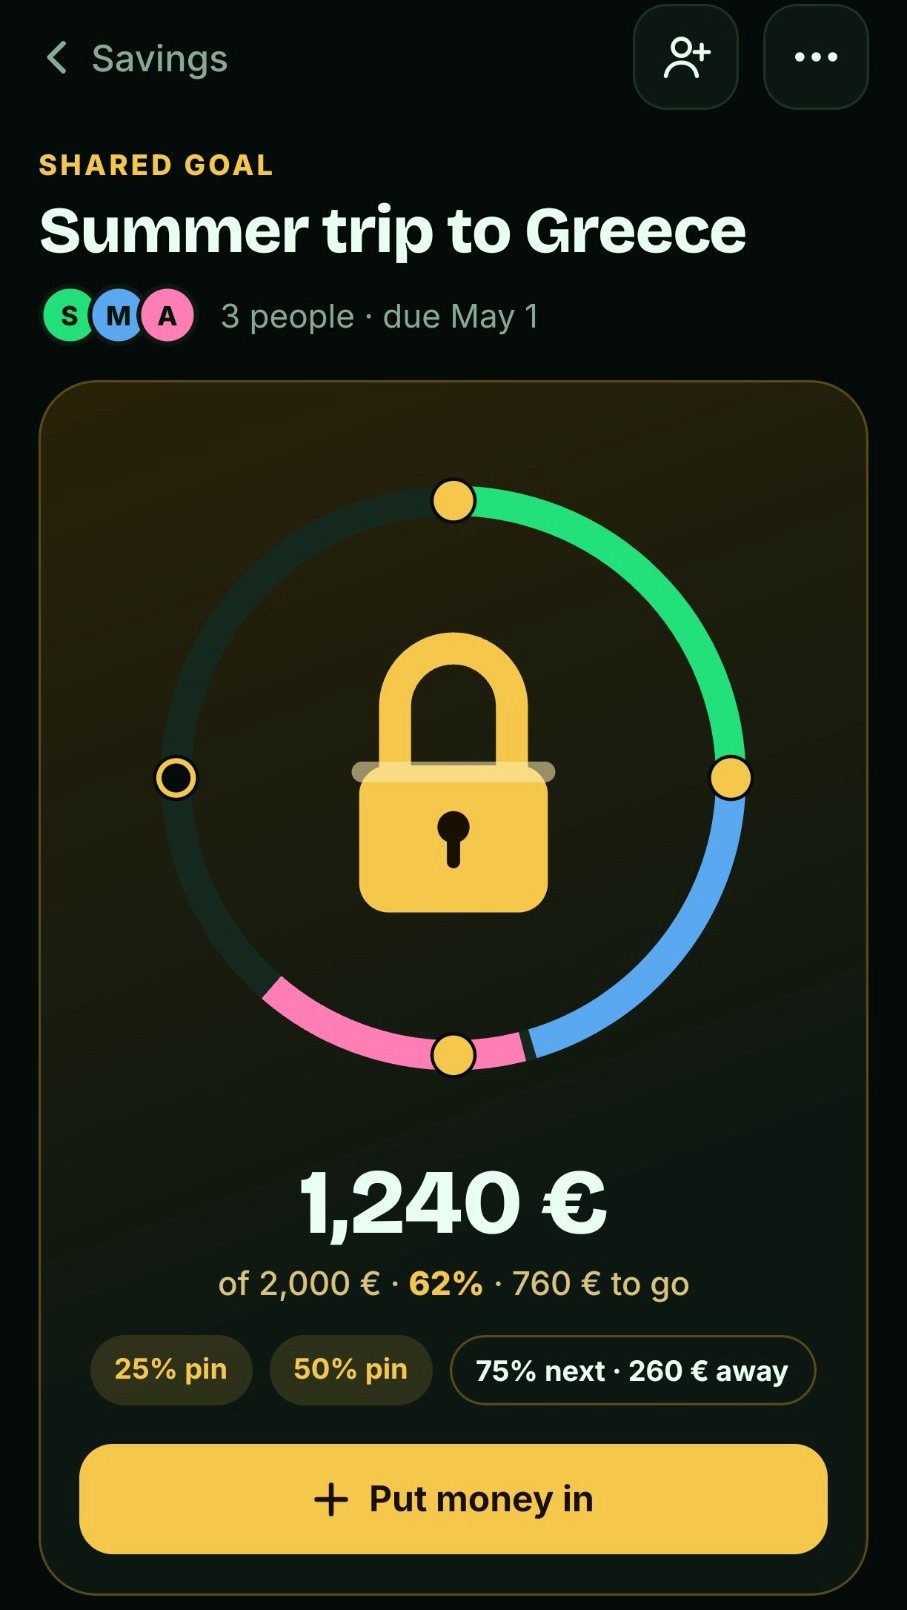
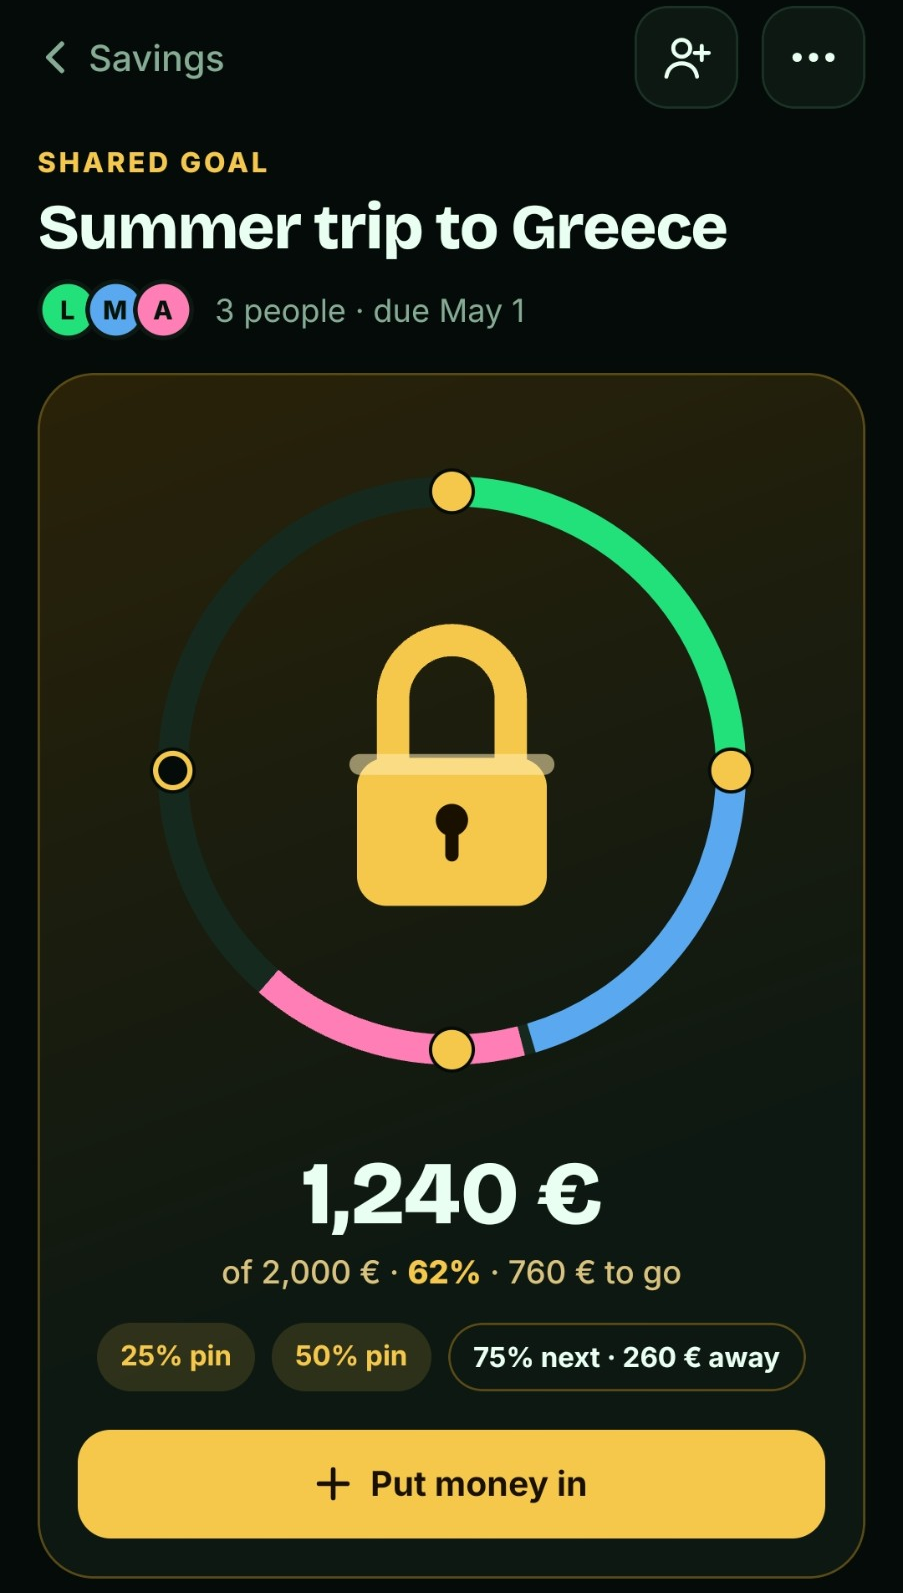
Google Play: slike 6-8 sa engleskim imenima

diff --git a/docs/PROJEKAT.md b/docs/PROJEKAT.md
@@ -421,7 +421,8 @@ Urađeno:
   srpska imena svuda i zameni engleskim“. Ranije Sergej, Marko, Ana; prijatelj van cilja Luka → Jake; ekran bez
   naloga S M A → L M A; primer na Privacy stranici „Mark added €50“; sva imena u testovima i komentarima
   (Anna, Mark, Luke, Ben, Cleo, Dan, Ivy). Prototip (`index.html`) i SQL komentari u već postavljenim migracijama
-  nisu dirani. Slike ekrana cilja za prodavnice (`docs/prodavnica/`) još pokazuju stara imena i treba ih ponovo snimiti. Tekst o privatnosti dopunjen (korak 6).
+  nisu dirani. Slike za Google Play 6–8 ponovo snimljene na Android-u sa engleskim imenima (12. nov. 2026); slike za App Store
+6 i 7 (`docs/prodavnica/app-store/`) još pokazuju stara imena i treba ih ponovo snimiti na iPhone-u. Tekst o privatnosti dopunjen (korak 6).
   Migracija `0006` + nova verzija `send-goal-push` (tekstovi za nudge, pin i otključavanje). Testovi: 18 provera logike
   cilja, 38 provera za `0006`, spisak kolona i RPC-ova u `privacy.test.mjs` dopunjen, 7 novih provera teksta push-a.
   Provereno u pregledaču (demo, tamna i svetla tema, mere prema slikama). Nije provereno na telefonima ni sa pravim
